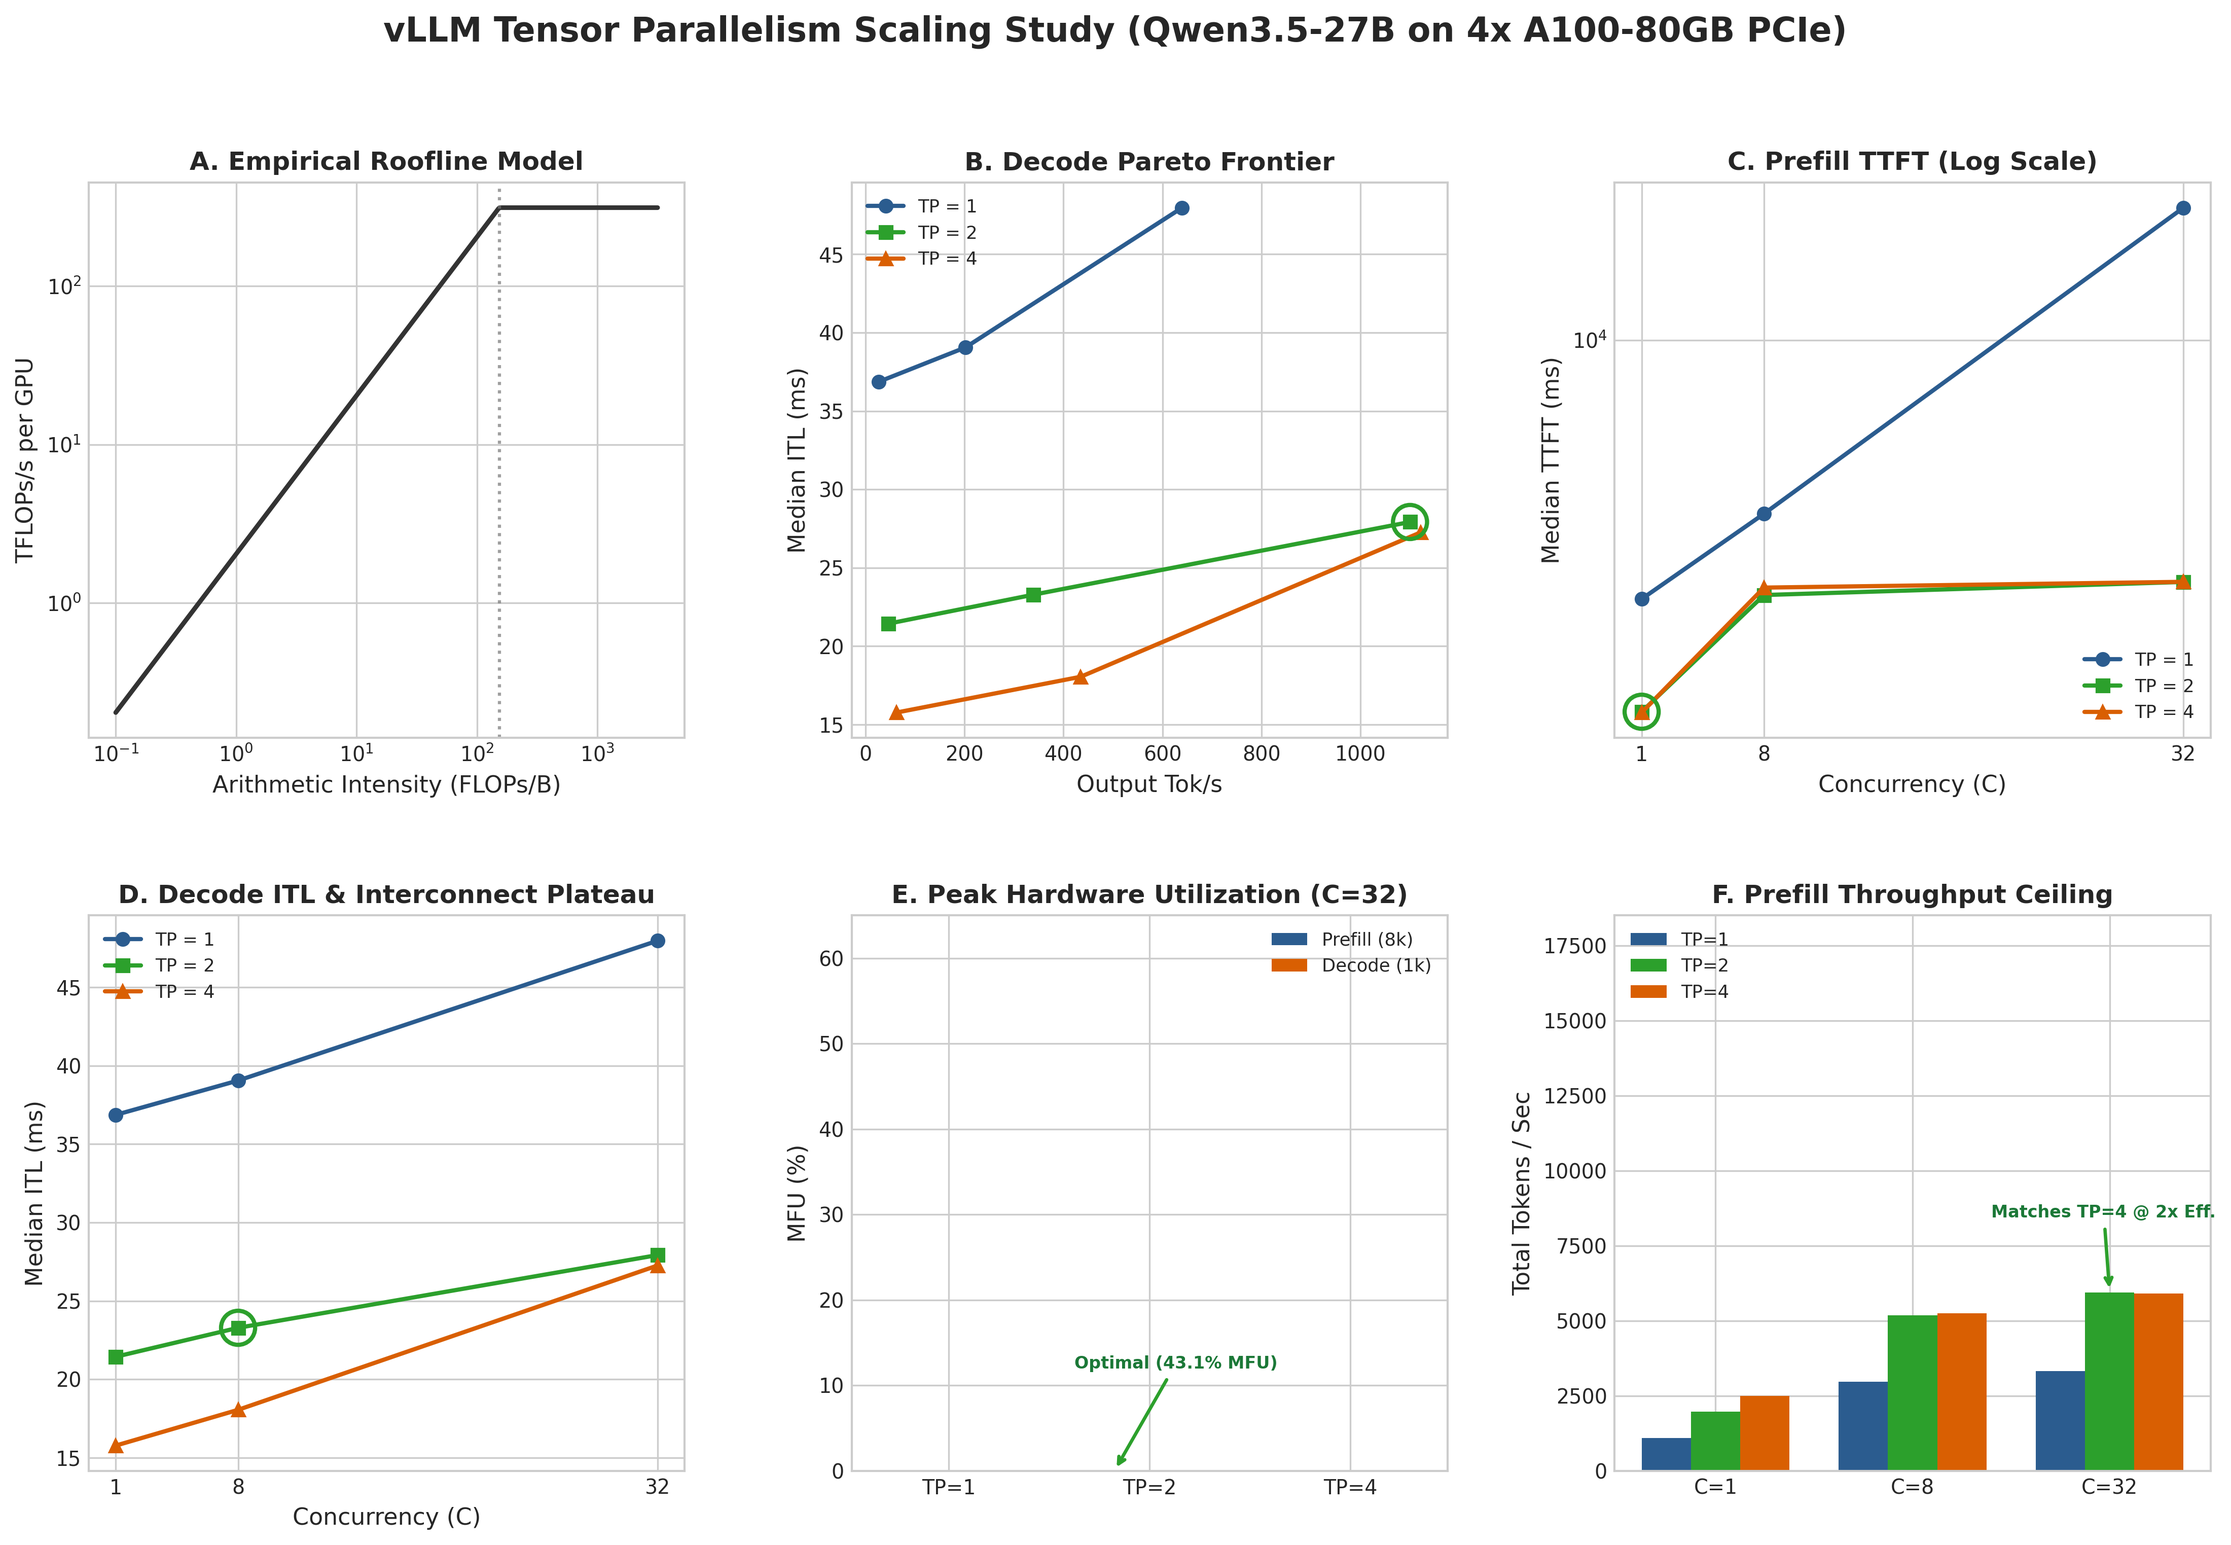
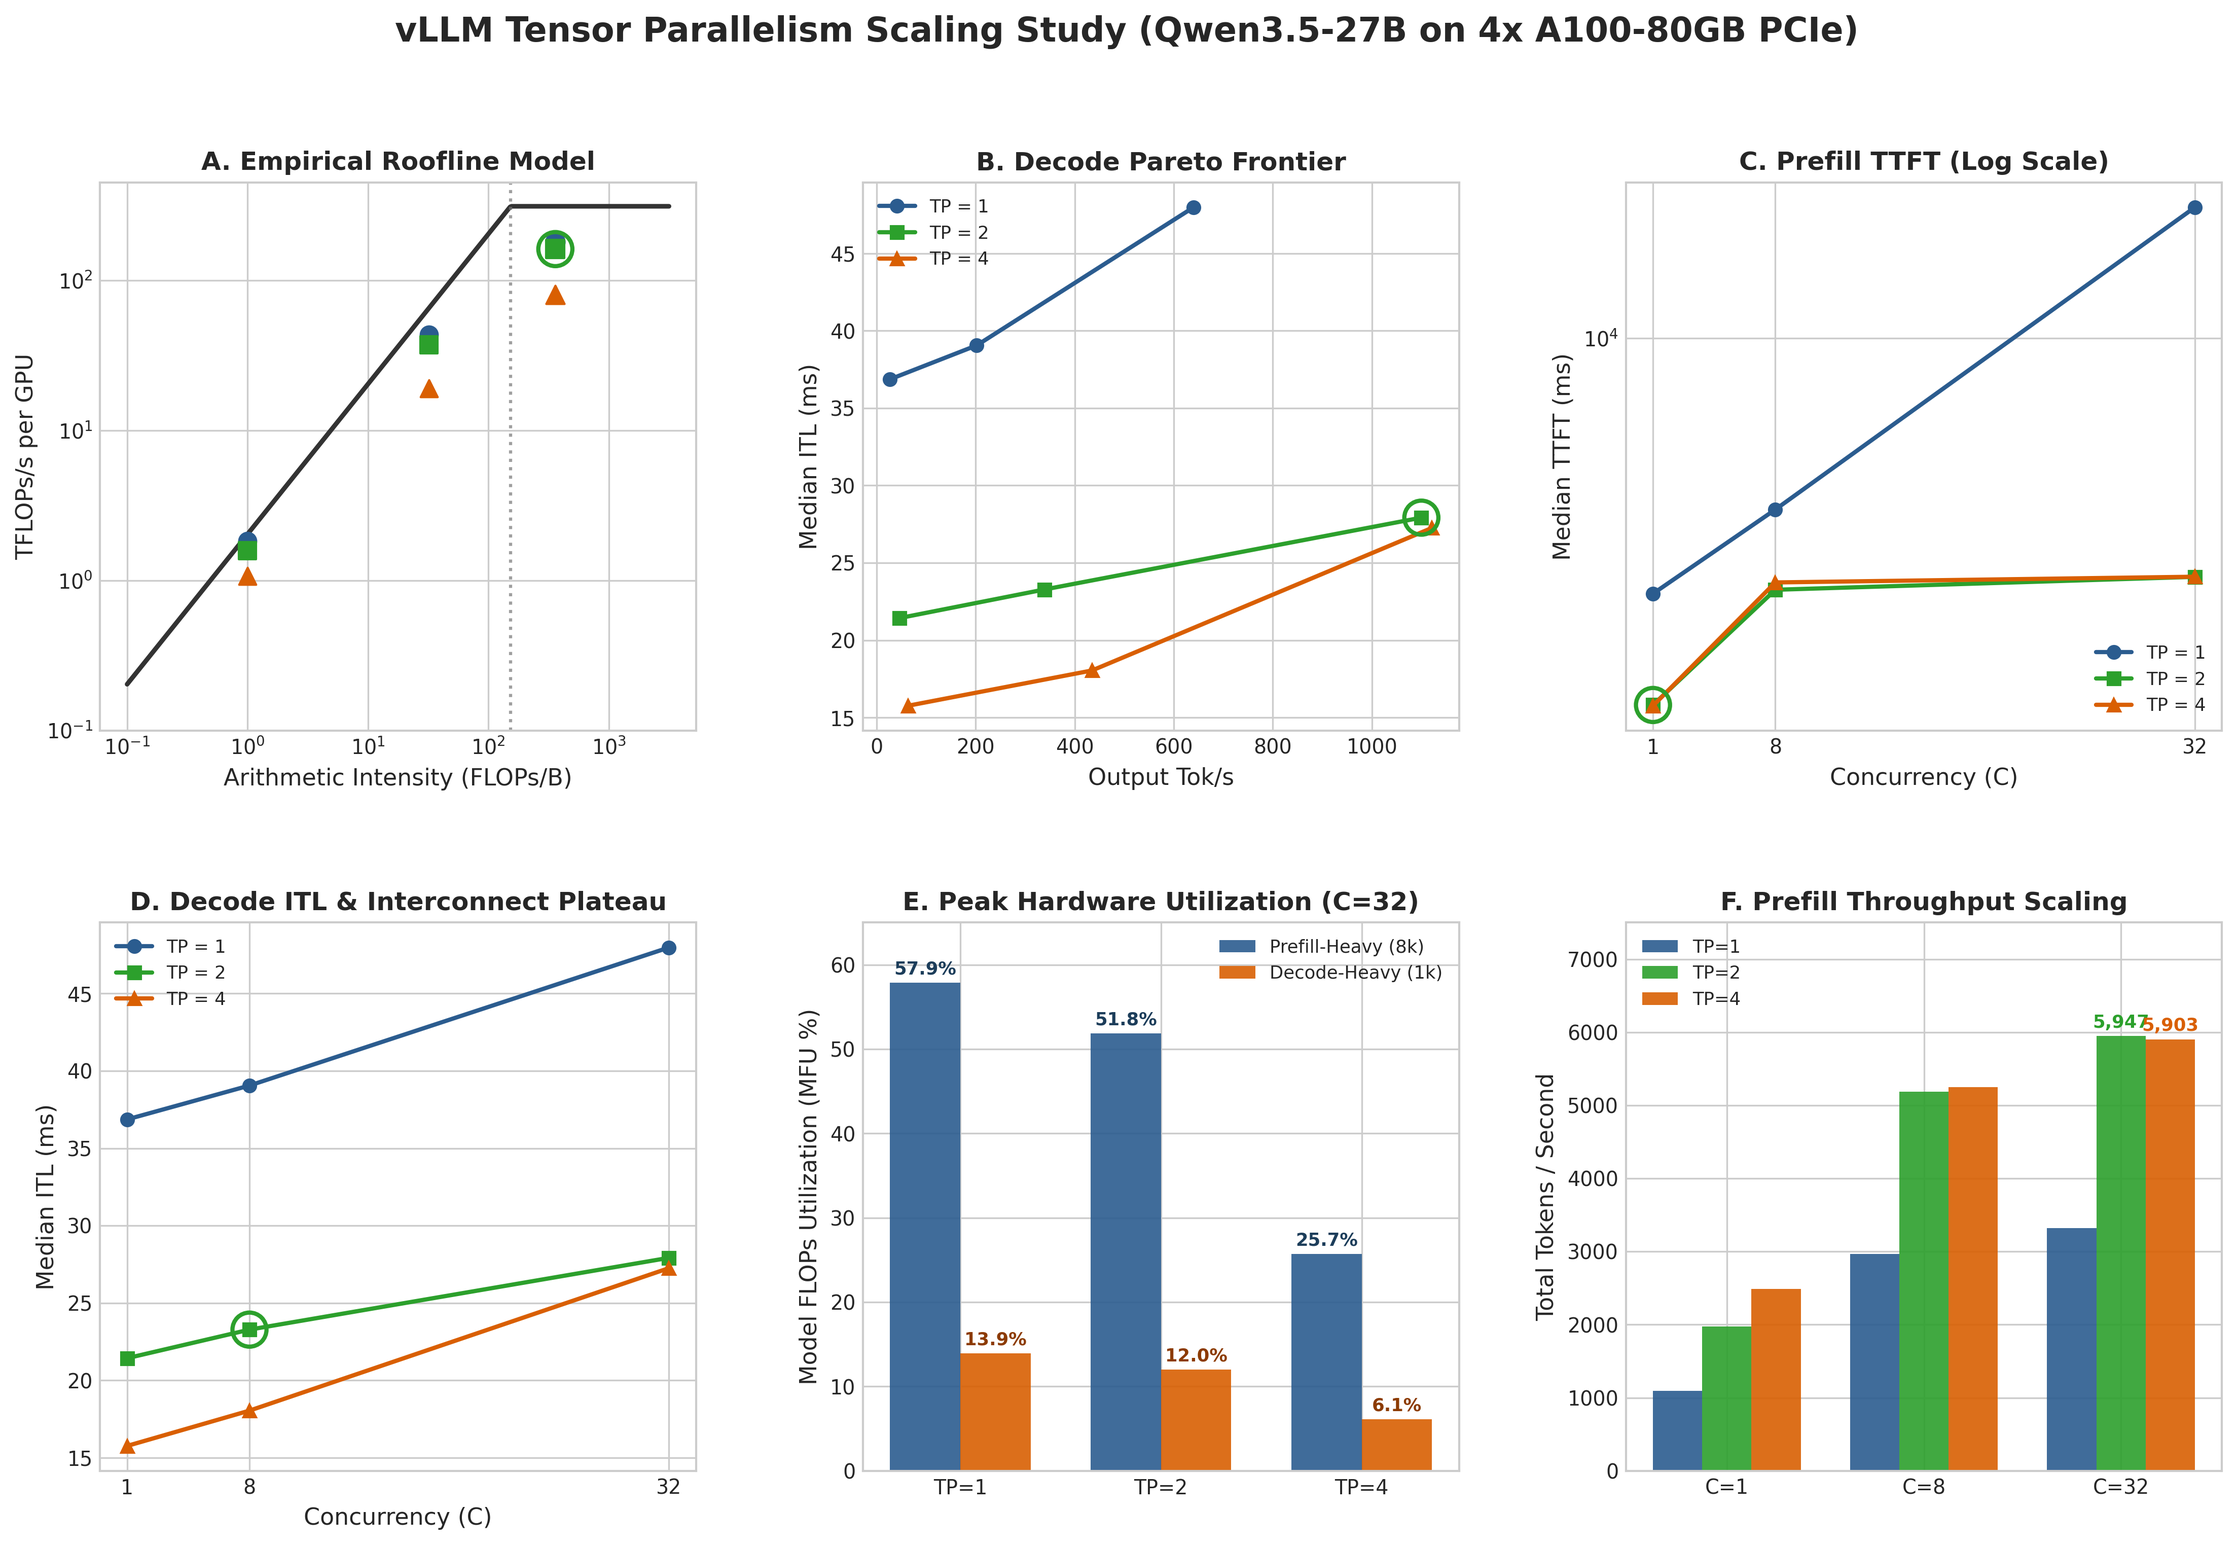
fix(plots): fix MFU calculation in dashboard and remove dead link

diff --git a/scripts/plot_macro_results.py b/scripts/plot_macro_results.py
@@ -2,7 +2,7 @@
 """
 Publication-Quality Macro Benchmark Plotting Suite
 Generates all 6 macro scaling figures, including the Pareto Frontier and Master Dashboard
-with explicit TP=2 sweet-spot annotations.
+with explicit TP=2 sweet-spot annotations and mathematically sound MFU calculations.
 """
 
 import glob
@@ -34,12 +34,22 @@ PLOTS_DIR = RESULTS_DIR / "plots"
 PLOTS_DIR.mkdir(parents=True, exist_ok=True)
 
 # Hardware Specifications (A100-PCIE-80GB)
-PEAK_TFLOPS = 312.0  # FP16/BF16 Tensor Core Peak per GPU
+MODEL_PARAMS = 27.2e9  # 27.2B params for Qwen3.5-27B
+PEAK_TFLOPS_PER_GPU = 312.0  # FP16/BF16 Tensor Core Peak per GPU (TFLOPs)
 PEAK_HBM_BW_GBS = 2039.0  # GB/s HBM2e per GPU
-RIDGE_POINT = (PEAK_TFLOPS * 1e12) / (PEAK_HBM_BW_GBS * 1e9)  # ~153.0 FLOPs/Byte
+RIDGE_POINT = (PEAK_TFLOPS_PER_GPU * 1e12) / (PEAK_HBM_BW_GBS * 1e9)  # ~153.0 FLOPs/Byte
 
 COLORS = {1: "#2b5c8f", 2: "#2ca02c", 4: "#d95f02"}
 MARKERS = {1: "o", 2: "s", 4: "^"}
+
+
+def compute_mfu(total_tok_per_sec, tp_size):
+    if not total_tok_per_sec or not tp_size:
+        return 0.0
+    flop_per_token = 2.0 * MODEL_PARAMS
+    total_flops = total_tok_per_sec * flop_per_token
+    peak_hardware_flops = tp_size * (PEAK_TFLOPS_PER_GPU * 1e12)
+    return (total_flops / peak_hardware_flops) * 100.0
 
 
 def load_dataset():
@@ -64,7 +74,7 @@ def load_dataset():
             
         tot_tp = d.get("total_token_throughput", 0)
         out_tp = d.get("output_throughput", 0)
-        mfu = d.get("mfu_percentage", 0)
+        mfu = compute_mfu(tot_tp, tp)
         
         data[key][c][tp] = {
             "ttft_med": d.get("median_ttft_ms", 0),
@@ -73,7 +83,7 @@ def load_dataset():
             "total_tp": tot_tp,
             "tokens_per_gpu": tot_tp / tp if tp > 0 else 0,
             "mfu": mfu,
-            "achieved_tflops_gpu": (mfu / 100.0) * PEAK_TFLOPS,
+            "achieved_tflops_gpu": (mfu / 100.0) * PEAK_TFLOPS_PER_GPU,
         }
     return data
 
@@ -82,7 +92,7 @@ def plot_roofline(data, save_path=PLOTS_DIR / "roofline_model.png"):
     fig, ax = plt.subplots(figsize=(8.5, 5.5))
     ai_range = np.logspace(-1, 3.5, 400)
     bw_bound = (PEAK_HBM_BW_GBS * ai_range) / 1e3
-    comp_bound = np.full_like(ai_range, PEAK_TFLOPS)
+    comp_bound = np.full_like(ai_range, PEAK_TFLOPS_PER_GPU)
     roofline = np.minimum(bw_bound, comp_bound)
     
     ax.plot(ai_range, roofline, color="#222222", linewidth=2.5, label="Theoretical A100 Ceiling")
@@ -109,7 +119,7 @@ def plot_roofline(data, save_path=PLOTS_DIR / "roofline_model.png"):
     ax.set_xlabel("Arithmetic Intensity (FLOPs / Byte)")
     ax.set_ylabel("Achieved Performance (TFLOPs/s per GPU)")
     ax.set_title("Empirical Roofline Model: Qwen3.5-27B on A100-80GB", fontweight="bold", pad=12)
-    ax.set_ylim(0.5, 450)
+    ax.set_ylim(0.1, 450)
     ax.legend(loc="lower right", framealpha=0.9, fontsize=8.5)
     
     plt.tight_layout()
@@ -158,41 +168,50 @@ def plot_pareto(data, save_path=PLOTS_DIR / "pareto_frontier.png"):
 
 def plot_master_dashboard(data, save_path=PLOTS_DIR / "macro_scaling_dashboard.png"):
     fig = plt.figure(figsize=(18, 11))
-    gs = fig.add_gridspec(2, 3, hspace=0.32, wspace=0.28)
+    gs = fig.add_gridspec(2, 3, hspace=0.35, wspace=0.28)
     
     prefill_key = ("prefill_heavy", 8192, 128)
     decode_key = ("decode_heavy", 256, 1024)
     concurrencies = [1, 8, 32]
     tp_sizes = [1, 2, 4]
     
-    # 1. Roofline
+    # --------------------------------------------------------------------------
+    # 1. Roofline (Top Left)
+    # --------------------------------------------------------------------------
     ax1 = fig.add_subplot(gs[0, 0])
     ai_range = np.logspace(-1, 3.5, 400)
-    roof = np.minimum((PEAK_HBM_BW_GBS * ai_range) / 1e3, PEAK_TFLOPS)
-    ax1.plot(ai_range, roof, color="#333333", linewidth=2.2)
+    roof = np.minimum((PEAK_HBM_BW_GBS * ai_range) / 1e3, PEAK_TFLOPS_PER_GPU)
+    ax1.plot(ai_range, roof, color="#333333", linewidth=2.2, label="Roofline")
     ax1.axvline(RIDGE_POINT, color="#777777", linestyle=":", alpha=0.7)
+    
     for c, ai_val in [(1, 1.0), (32, 32.0)]:
         for tp in [1, 2, 4]:
             pt = data[decode_key].get(c, {}).get(tp)
-            if pt: ax1.scatter(ai_val, pt["achieved_tflops_gpu"], color=COLORS[tp], marker=MARKERS[tp], s=60)
+            if pt: ax1.scatter(ai_val, pt["achieved_tflops_gpu"], color=COLORS[tp], marker=MARKERS[tp], s=65, zorder=5)
+            
     for tp in [1, 2, 4]:
         pt = data[prefill_key].get(32, {}).get(tp)
         if pt:
-            ax1.scatter(360.0, pt["achieved_tflops_gpu"], color=COLORS[tp], marker=MARKERS[tp], s=70)
+            ax1.scatter(360.0, pt["achieved_tflops_gpu"], color=COLORS[tp], marker=MARKERS[tp], s=75, zorder=5)
             if tp == 2:
                 ax1.scatter(360.0, pt["achieved_tflops_gpu"], s=260, facecolors="none", edgecolors="#2ca02c", linewidth=2.0, zorder=10)
+                
     ax1.set_xscale("log")
     ax1.set_yscale("log")
     ax1.set_title("A. Empirical Roofline Model", fontweight="bold")
     ax1.set_xlabel("Arithmetic Intensity (FLOPs/B)")
     ax1.set_ylabel("TFLOPs/s per GPU")
+    ax1.set_ylim(0.1, 450)
 
-    # 2. Pareto Frontier
+    # --------------------------------------------------------------------------
+    # 2. Pareto Frontier (Top Center)
+    # --------------------------------------------------------------------------
     ax2 = fig.add_subplot(gs[0, 1])
     for tp in [1, 2, 4]:
         thpts = [data[decode_key][c][tp]["output_tp"] for c in concurrencies]
         itls = [data[decode_key][c][tp]["itl_med"] for c in concurrencies]
         ax2.plot(thpts, itls, color=COLORS[tp], marker=MARKERS[tp], linewidth=2.0, label=f"TP = {tp}")
+        
     tp2_thpt_c32 = data[decode_key][32][2]["output_tp"]
     tp2_itl_c32 = data[decode_key][32][2]["itl_med"]
     ax2.scatter(tp2_thpt_c32, tp2_itl_c32, s=260, facecolors="none", edgecolors="#2ca02c", linewidth=2.0, zorder=10)
@@ -201,11 +220,14 @@ def plot_master_dashboard(data, save_path=PLOTS_DIR / "macro_scaling_dashboard.p
     ax2.set_ylabel("Median ITL (ms)")
     ax2.legend(loc="upper left", fontsize=8.5)
 
-    # 3. TTFT Log Scaling
+    # --------------------------------------------------------------------------
+    # 3. TTFT Log Scaling (Top Right)
+    # --------------------------------------------------------------------------
     ax3 = fig.add_subplot(gs[0, 2])
     for tp in [1, 2, 4]:
         ttfts = [data[prefill_key][c][tp]["ttft_med"] for c in concurrencies]
         ax3.plot(concurrencies, ttfts, color=COLORS[tp], marker=MARKERS[tp], linewidth=2.0, label=f"TP = {tp}")
+        
     tp2_ttft_c1 = data[prefill_key][1][2]["ttft_med"]
     ax3.scatter(1, tp2_ttft_c1, s=260, facecolors="none", edgecolors="#2ca02c", linewidth=2.0, zorder=10)
     ax3.set_yscale("log")
@@ -215,11 +237,14 @@ def plot_master_dashboard(data, save_path=PLOTS_DIR / "macro_scaling_dashboard.p
     ax3.set_xticks(concurrencies)
     ax3.legend(loc="lower right", fontsize=8.5)
 
-    # 4. ITL Decode Scaling
+    # --------------------------------------------------------------------------
+    # 4. ITL Decode Scaling (Bottom Left)
+    # --------------------------------------------------------------------------
     ax4 = fig.add_subplot(gs[1, 0])
     for tp in [1, 2, 4]:
         itls = [data[decode_key][c][tp]["itl_med"] for c in concurrencies]
         ax4.plot(concurrencies, itls, color=COLORS[tp], marker=MARKERS[tp], linewidth=2.0, label=f"TP = {tp}")
+        
     tp2_itl_c8 = data[decode_key][8][2]["itl_med"]
     ax4.scatter(8, tp2_itl_c8, s=260, facecolors="none", edgecolors="#2ca02c", linewidth=2.0, zorder=10)
     ax4.set_title("D. Decode ITL & Interconnect Plateau", fontweight="bold")
@@ -228,40 +253,53 @@ def plot_master_dashboard(data, save_path=PLOTS_DIR / "macro_scaling_dashboard.p
     ax4.set_xticks(concurrencies)
     ax4.legend(loc="upper left", fontsize=8.5)
 
-    # 5. MFU Utilization Bar
+    # --------------------------------------------------------------------------
+    # 5. MFU Utilization Bar (Bottom Center) - PLOT 5
+    # --------------------------------------------------------------------------
     ax5 = fig.add_subplot(gs[1, 1])
     p_mfu = [data[prefill_key][32][tp]["mfu"] for tp in tp_sizes]
     d_mfu = [data[decode_key][32][tp]["mfu"] for tp in tp_sizes]
     x = np.arange(len(tp_sizes))
     w = 0.35
-    ax5.bar(x - w/2, p_mfu, w, label="Prefill (8k)", color="#2b5c8f")
-    ax5.bar(x + w/2, d_mfu, w, label="Decode (1k)", color="#d95f02")
-    ax5.annotate("Optimal (43.1% MFU)", xy=(1 - w/2, p_mfu[1]), xytext=(1 - w/2 - 0.2, p_mfu[1] + 12),
-                 arrowprops=dict(facecolor="#2ca02c", edgecolor="#2ca02c", arrowstyle="->", lw=1.6),
-                 fontsize=8, fontweight="bold", color="#1b7837")
+    
+    rects1 = ax5.bar(x - w/2, p_mfu, w, label="Prefill-Heavy (8k)", color="#2b5c8f", alpha=0.9)
+    rects2 = ax5.bar(x + w/2, d_mfu, w, label="Decode-Heavy (1k)", color="#d95f02", alpha=0.9)
+    
+    # Add numerical percentage labels on top of bars
+    for rect in rects1:
+        h = rect.get_height()
+        ax5.annotate(f"{h:.1f}%", (rect.get_x() + rect.get_width()/2, h), xytext=(0, 4), textcoords="offset points", ha="center", fontsize=8.5, fontweight="bold", color="#1c3d5a")
+    for rect in rects2:
+        h = rect.get_height()
+        ax5.annotate(f"{h:.1f}%", (rect.get_x() + rect.get_width()/2, h), xytext=(0, 4), textcoords="offset points", ha="center", fontsize=8.5, fontweight="bold", color="#8c3b01")
+
     ax5.set_title("E. Peak Hardware Utilization (C=32)", fontweight="bold")
     ax5.set_xticks(x)
     ax5.set_xticklabels([f"TP={tp}" for tp in tp_sizes])
     ax5.set_ylim(0, 65)
-    ax5.set_ylabel("MFU (%)")
+    ax5.set_ylabel("Model FLOPs Utilization (MFU %)")
     ax5.legend(loc="upper right", fontsize=8.5)
 
-    # 6. Total Throughput Comparison
+    # --------------------------------------------------------------------------
+    # 6. Total Throughput Comparison (Bottom Right) - PLOT 6
+    # --------------------------------------------------------------------------
     ax6 = fig.add_subplot(gs[1, 2])
     x_c = np.arange(len(concurrencies))
     w = 0.25
+    
     for i, tp in enumerate(tp_sizes):
         thpt = [data[prefill_key][c][tp]["total_tp"] for c in concurrencies]
-        ax6.bar(x_c + (i - 1)*w, thpt, w, label=f"TP={tp}", color=COLORS[tp])
-    tp2_thpt_c32_tot = data[prefill_key][32][2]["total_tp"]
-    ax6.annotate("Matches TP=4 @ 2x Eff.", xy=(2, tp2_thpt_c32_tot), xytext=(2 - 0.6, tp2_thpt_c32_tot + 2500),
-                 arrowprops=dict(facecolor="#2ca02c", edgecolor="#2ca02c", arrowstyle="->", lw=1.6),
-                 fontsize=8, fontweight="bold", color="#1b7837")
-    ax6.set_title("F. Prefill Throughput Ceiling", fontweight="bold")
+        rects = ax6.bar(x_c + (i - 1)*w, thpt, w, label=f"TP={tp}", color=COLORS[tp], alpha=0.9)
+        # Add labels on C=32 bars
+        if tp in [2, 4]:
+            h = thpt[2]
+            ax6.annotate(f"{h:,.0f}", (x_c[2] + (i - 1)*w, h), xytext=(0, 4), textcoords="offset points", ha="center", fontsize=8.5, fontweight="bold", color=COLORS[tp])
+
+    ax6.set_title("F. Prefill Throughput Scaling", fontweight="bold")
     ax6.set_xticks(x_c)
     ax6.set_xticklabels([f"C={c}" for c in concurrencies])
-    ax6.set_ylim(0, 18500)
-    ax6.set_ylabel("Total Tokens / Sec")
+    ax6.set_ylim(0, 7500)
+    ax6.set_ylabel("Total Tokens / Second")
     ax6.legend(loc="upper left", fontsize=8.5)
 
     fig.suptitle("vLLM Tensor Parallelism Scaling Study (Qwen3.5-27B on 4x A100-80GB PCIe)", fontsize=16, fontweight="bold", y=0.98)

diff --git a/README.md b/README.md
@@ -227,17 +227,16 @@ vllm-tp-scaling-study/
 │   ├── MACRO_BENCHMARK_SUMMARY.md       # Full 18-point serving benchmark table
 │   ├── MICRO_BENCHMARK_SUMMARY.md       # Full 18-point GPU Kernel Compute vs comm table
 │   ├── micro_trace_results.json         # Raw extracted CUPTI hardware metrics
-│   ├── RESULTS_AND_ANALYSIS.md          # Comprehensive technical deep-dive
-│   ├── plots/                           # 7 high-resolution publication charts
+│   ├── plots/                           # High-resolution publication charts
 │   ├── tp1/, tp2/, tp4/                 # Raw macro JSON benchmark logs
 │   └── traces/                          # Raw .nsys-rep traces & SQLite databases
 └── scripts/
-    ├── parse_micro_traces.py            # Automated CUPTI trace parsing engine
     ├── parse_macro_results.py           # Macro JSON benchmark aggregator
-    ├── plot_macro_results.py            # Macro dashboard visualization generator
+    ├── plot_macro_results.py            # Macro dashboard & pareto visualization generator
+    ├── parse_micro_traces.py            # Automated CUPTI trace parsing engine
+    ├── plot_micro_scaling.py            # Micro kernel decomposition visualization generator
     ├── profile_tp_step.py               # Precision NVTX & CUDA Profiler step harness
     ├── run_benchmarks.sh                # Automated macro serving benchmark suite
-    └── run_micro_profiling.sh           # Automated Nsight micro-profiling suite
+    ├── run_micro_profiling.sh           # Automated Nsight micro-profiling suite
+    └── capture_env.sh                   # Environment & topology diagnostic capture tool
 ```
-
-For the complete technical breakdown and full mathematical analysis, see [RESULTS_AND_ANALYSIS.md](./results/RESULTS_AND_ANALYSIS.md).
